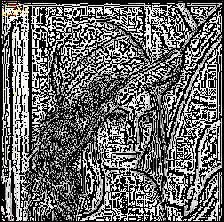
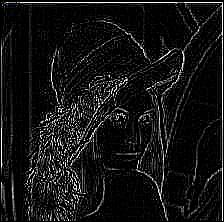
verificação de filtro

diff --git a/src/PiFiltro.java b/src/PiFiltro.java
@@ -112,12 +112,12 @@ public class PiFiltro {
                 int Blue21 = MatrizBlue[x+1][y];
                 int Blue22 = MatrizBlue[x+1][y+1];
 
-                int r = (+Red00 + Red01 + Red02 +
-                        Red10 - (8*Red11) + Red12 +
-                        Red20 +   Red21 + Red22);
-                int g = (+Green00 + Green01 + Green02 +
-                        Green10 - (8*Green11) + Green12 +
-                        Green20 +   Green21 + Green22);
+                int r = (-Red00 - Red01 - Red02 -
+                        Red10 + (8*Red11) - Red12 -
+                        Red20 -   Red21 - Red22);
+                int g = (-Green00 - Green01 - Green02 -
+                        Green10 + (8*Green11) - Green12 -
+                        Green20 -   Green21 - Green22);
                 int b = (-Blue00 - Blue01 - Blue02 -
                         Blue10 + (8*Blue11) - Blue12 -
                         Blue20 -   Blue21 - Blue22);
